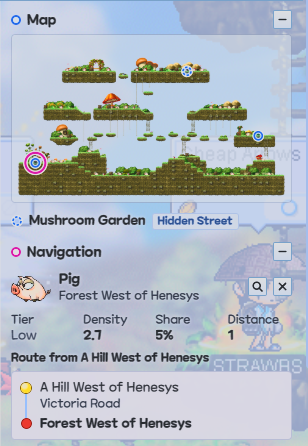
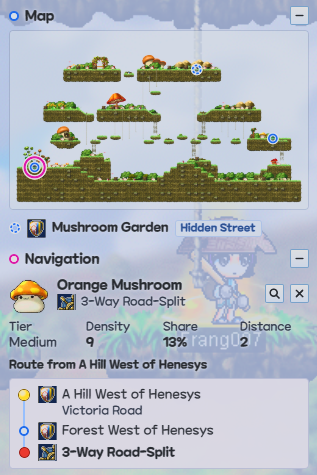
The site's shots for 0.8.0: Map Marks, every mob listed, the Item Card and setup's first run
Retaken in the game on 0.8.0's code, emptying the Retake list. The game window
shows the panel's Map and Mobs sections with all seven mobs, so the hero cut from
it runs to the panel's foot (600×960), and the film lands its read beside the
panel title's Map Mark. The Item Card topic gains its shot, as Item Lookup's has.

diff --git a/site/index.html b/site/index.html
@@ -95,7 +95,7 @@
               <img
                 id="hero-shot"
                 src="./screenshots/hero.png"
-                alt="MapleStory's minimap on Victoria Road, Henesys Hunting Ground I, and under it the MapleCompass panel naming the same map: its picture with every portal ringed and the next one on the way ringed in magenta, then Navigation to Orange Mushrooms on Henesys Hunting Ground II, with the route there."
+                alt="MapleStory's minimap on Victoria Road, Henesys Hunting Ground I, and under it the MapleCompass panel naming the same map beside Henesys's shield, its Map Mark: its picture with every portal ringed, then the map's EXP and mobs per hour and all seven of its mobs."
                 fetchpriority="high"
               />
               <figcaption>The minimap's title, and the panel under it showing that map.</figcaption>
@@ -204,11 +204,11 @@
             <figure class="shot">
               <img
                 src="./screenshots/setup.png"
-                alt="Setup opened again, at its step for marking the minimap title: draw or adjust a box around its two lines, with Back, Keep the current title and Mark the title."
+                alt="Setup on first run, at its step for marking the minimap title: draw or adjust a box around its two lines, with Back and Mark the title."
                 loading="lazy"
                 decoding="async"
               />
-              <figcaption>Setup opened again, to mark the minimap title anew.</figcaption>
+              <figcaption>Setup, marking the minimap title.</figcaption>
             </figure>
           </section>
           <section class="topic wide" id="trouble" aria-labelledby="trouble-title">
@@ -440,7 +440,7 @@
                 <img
                   src="./screenshots/game-window.png"
                   sizes="(max-width: 640px) calc(100vw - 36px), 608px"
-                  alt="MapleStory on Henesys Hunting Ground I, with the MapleCompass panel inside the game window, dragged under the minimap: the map's picture, Navigation to Orange Mushrooms, and the map's EXP and mobs per hour."
+                  alt="MapleStory on Henesys Hunting Ground I, with the MapleCompass panel inside the game window, dragged under the minimap: the map's picture, its EXP and mobs per hour and all seven of its mobs, and the Grind Tracker under the panel."
                   loading="lazy"
                   decoding="async"
                 />
@@ -518,7 +518,7 @@
             <figure class="shot">
               <img
                 src="./screenshots/map.png"
-                alt="The Map section with the pointer on a dashed ring: its card says it leads to Mushroom Garden, a Hidden Street, through a hidden portal, and the Hidden Portal's row sits under the picture."
+                alt="The Map section with the pointer on a dashed ring: its card says it leads to Mushroom Garden, a Hidden Street, through a hidden portal, and the Hidden Portal's row sits under the picture, each with Mushroom Garden's Map Mark."
                 loading="lazy"
                 decoding="async"
               />
@@ -636,7 +636,7 @@
             <figure class="shot">
               <img
                 src="./screenshots/navigation.png"
-                alt="The Map section with the next portal on the route ringed in magenta, and Navigation to Pigs on Forest West of Henesys: Tier, Density, Share and Distance, and the route from A Hill West of Henesys."
+                alt="The Map section with the next portal on the route ringed in magenta, and Navigation to Orange Mushrooms on 3-Way Road-Split: Tier, Density, Share and Distance, and the route from A Hill West of Henesys through Forest West of Henesys, each map with its Map Mark."
                 loading="lazy"
                 decoding="async"
               />
@@ -744,7 +744,7 @@
             <p>What an item is worth, from its tooltip in the game, and its MeowDB page.</p>
           </header>
 
-          <section class="topic" id="item-card" aria-labelledby="item-card-title">
+          <section class="topic with-shot full-shot" id="item-card" aria-labelledby="item-card-title">
             <div class="topic-text">
               <h3 id="item-card-title">Item Card</h3>
               <p>
@@ -792,6 +792,15 @@
                 price, the card has the keyboard; clicking back into the game gives it back, keeping what you typed.
               </p>
             </div>
+            <figure class="shot">
+              <img
+                src="./screenshots/item-card.png"
+                alt="Garnet's Item Card over the inventory, with the game's tooltip for Garnet under it. The card says Shop pays 200 mesos, and Market 1,000 mesos, with buttons to change the price and to open MesoWatch."
+                loading="lazy"
+                decoding="async"
+              />
+              <figcaption>An Item Card at the pointer, over the item's tooltip.</figcaption>
+            </figure>
           </section>
 
           <section class="topic with-shot full-shot" id="item-lookup" aria-labelledby="item-lookup-title">

diff --git a/site/reel.ts b/site/reel.ts
@@ -13,13 +13,13 @@ type Rect = { x: number; y: number; w: number; h: number };
 // Where things are in game-window.png (site/screenshots/README.md: retaking it means
 // checking these). The hero shot, hero.png, is its top-left corner at full size.
 const WHOLE: Rect = { x: 0, y: 0, w: 1922, h: 1232 };
-const HERO: Rect = { x: 0, y: 0, w: 600, h: 872 };
+const HERO: Rect = { x: 0, y: 0, w: 600, h: 960 };
 /** The box marked around the minimap title's two lines, with a little of its blue panel. */
 const MARK: Rect = { x: 70, y: 68, w: 248, h: 58 };
-/** The panel's title panel, under the minimap, where the read lands. */
-const TITLE: Rect = { x: 10, y: 383, w: 302, h: 56 };
+/** The panel's title panel, under the minimap, where the read lands: beside its Map Mark. */
+const TITLE: Rect = { x: 60, y: 406, w: 290, h: 56 };
 /** Close on the minimap's title, with the panel's under it, in the hero's shape. */
-const CLOSE: Rect = { x: 0, y: 28, w: 330, h: (330 * HERO.h) / HERO.w };
+const CLOSE: Rect = { x: 0, y: 28, w: 360, h: (360 * HERO.h) / HERO.w };
 /** What the minimap's title says. */
 const STREET = "Victoria Road";
 const MAP = "Henesys Hunting Ground I";

diff --git a/site/site.css b/site/site.css
@@ -452,7 +452,7 @@ figcaption {
   display: block;
   max-width: none;
   width: 600px;
-  height: 872px;
+  height: 960px;
   border: 0;
   border-radius: 0;
   background: none;

diff --git a/site/screenshots/README.md b/site/screenshots/README.md
@@ -14,22 +14,15 @@ The pictures on the MapleCompass site, taken by hand in the game. The site's bui
 
 | File | What it shows | Size | Taken on |
 | --- | --- | --- | --- |
-| `hero.png` | The minimap on a hunting map (Henesys Hunting Ground I) and the panel under it naming the same map, down through its Map and Navigation sections, with a strip of the game beside it. Also the picture links to the site show (Discord, Reddit). | 600×872, the game window's top-left corner, its title bar included | 0.7.0 |
-| `game-window.png` | The game on the same map, with the panel inside the game window under the minimap showing its Map, Navigation and Mobs sections. Also the hero's film, which marks and reads the minimap's title and drops the read into the panel's title: a retake that moves either title, or changes the map, means setting where they are and what the title says at the top of `site/reel.ts`. | 1922×1232, the whole window | 0.7.0 |
-| `map.png` | The Map section on a map with a Hidden Portal: the Map Preview with its rings, the pointer resting on the dashed ring with its card showing, and the Hidden Portal's row. | 319×242, the panel's Map section | 0.7.0 |
-| `navigation.png` | The Map section with the next portal's magenta ring, and Navigation with a Hunting Target: the mob, the figures, and the route from the map you're on. | 308×446, the panel's Map and Navigation sections | 0.7.0 |
+| `hero.png` | The minimap on a hunting map (Henesys Hunting Ground I) and the panel under it naming the same map beside its Map Mark, down through its Map and Mobs sections to the panel's foot, with a strip of the game beside it. Also the picture links to the site show (Discord, Reddit). | 600×960, the game window's top-left corner, its title bar included | 0.8.0 |
+| `game-window.png` | The game on the same map, with the panel inside the game window under the minimap showing its Map and Mobs sections, every mob listed, and the Grind Tracker under it. Also the hero's film, which marks and reads the minimap's title and drops the read into the panel's title: a retake that moves either title, or changes the map, means setting where they are and what the title says at the top of `site/reel.ts`. | 1922×1232, the whole window | 0.8.0 |
+| `map.png` | The Map section on a map with a Hidden Portal: the Map Preview with its rings, the pointer resting on the dashed ring with its card showing, and the Hidden Portal's row, each with its destination's Map Mark. | 332×247, the panel's Map section | 0.8.0 |
+| `navigation.png` | The Map section with the next portal's magenta ring, and Navigation with a Hunting Target: the mob, the figures, and the route from the map you're on, each map with its Map Mark. | 317×475, the panel's Map and Navigation sections | 0.8.0 |
 | `grind-tracker.png` | The Grind Tracker: Time to Level, the rates, a Best row and the EXP gauge at its foot. | 280×159, the Grind Tracker's window | 0.7.0 |
+| `item-card.png` | An Item Card at the pointer over the inventory, on an item with a shop price and a market price you set (Garnet), with its window bar and the game's tooltip under it. | 488×386, the card and the tooltip | 0.8.0 |
 | `item-lookup.png` | An item's tooltip in the inventory, and the Item Lookup alert above it saying the page it opened. | 611×742, the inventory, the tooltip and the alert | 0.7.0 |
-| `setup.png` | Setup's step for marking the minimap title, on first run. | 522×592, the setup window | 0.7.0 |
+| `setup.png` | Setup's step for marking the minimap title, on first run. | 522×592, the setup window | 0.8.0 |
 
 ## Retake
 
 When a change alters something a shot shows, the PR that makes it lists the shot here, with what changed. At release, the smoke test retakes every shot listed (`docs/releasing.md`) and empties the list.
-
-- `game-window.png`: the Mobs section lists every mob on the map, so Henesys Hunting Ground I shows all seven, with no "+2 more" line. The title shows the map's Map Mark (Henesys's shield) beside its two lines, and the route its stops' marks. The hero's film then lands its read on a title laid out beside that mark: set it to match at the top of `site/reel.ts`.
-- `hero.png`: the title shows the map's Map Mark beside its two lines, and the route its stops' marks.
-- `map.png`: the Hidden Portal's row has its destination's Map Mark between its ring and its name, and so does the mark card.
-- `navigation.png`: the Hidden Portal's row, the Hunting Target's map and every stop on the route have their Map Marks.
-- `item-card.png` (new, not taken yet): an Item Card at the pointer over the inventory, on an item with a shop price and a market price you set (Garnet, say), with its window bar, the game's tooltip beside or under it. Add it to the table above, and its figure to the Item Card topic in `site/index.html` (a `with-shot full-shot` topic, as Item Lookup's), once taken.
-- `item-lookup.png`: Item Lookup's hotkey is Ctrl+Shift+U. The alert in the shot reads the same either way; retake only if it shows the hotkey.
-- `setup.png`: the shot is setup opened again ("Step 3 of 6", with Keep the current title), and the Setup topic describes first run. Retake it on first run, at "Step 4 of 7", and set its alt text and caption back to first run.
